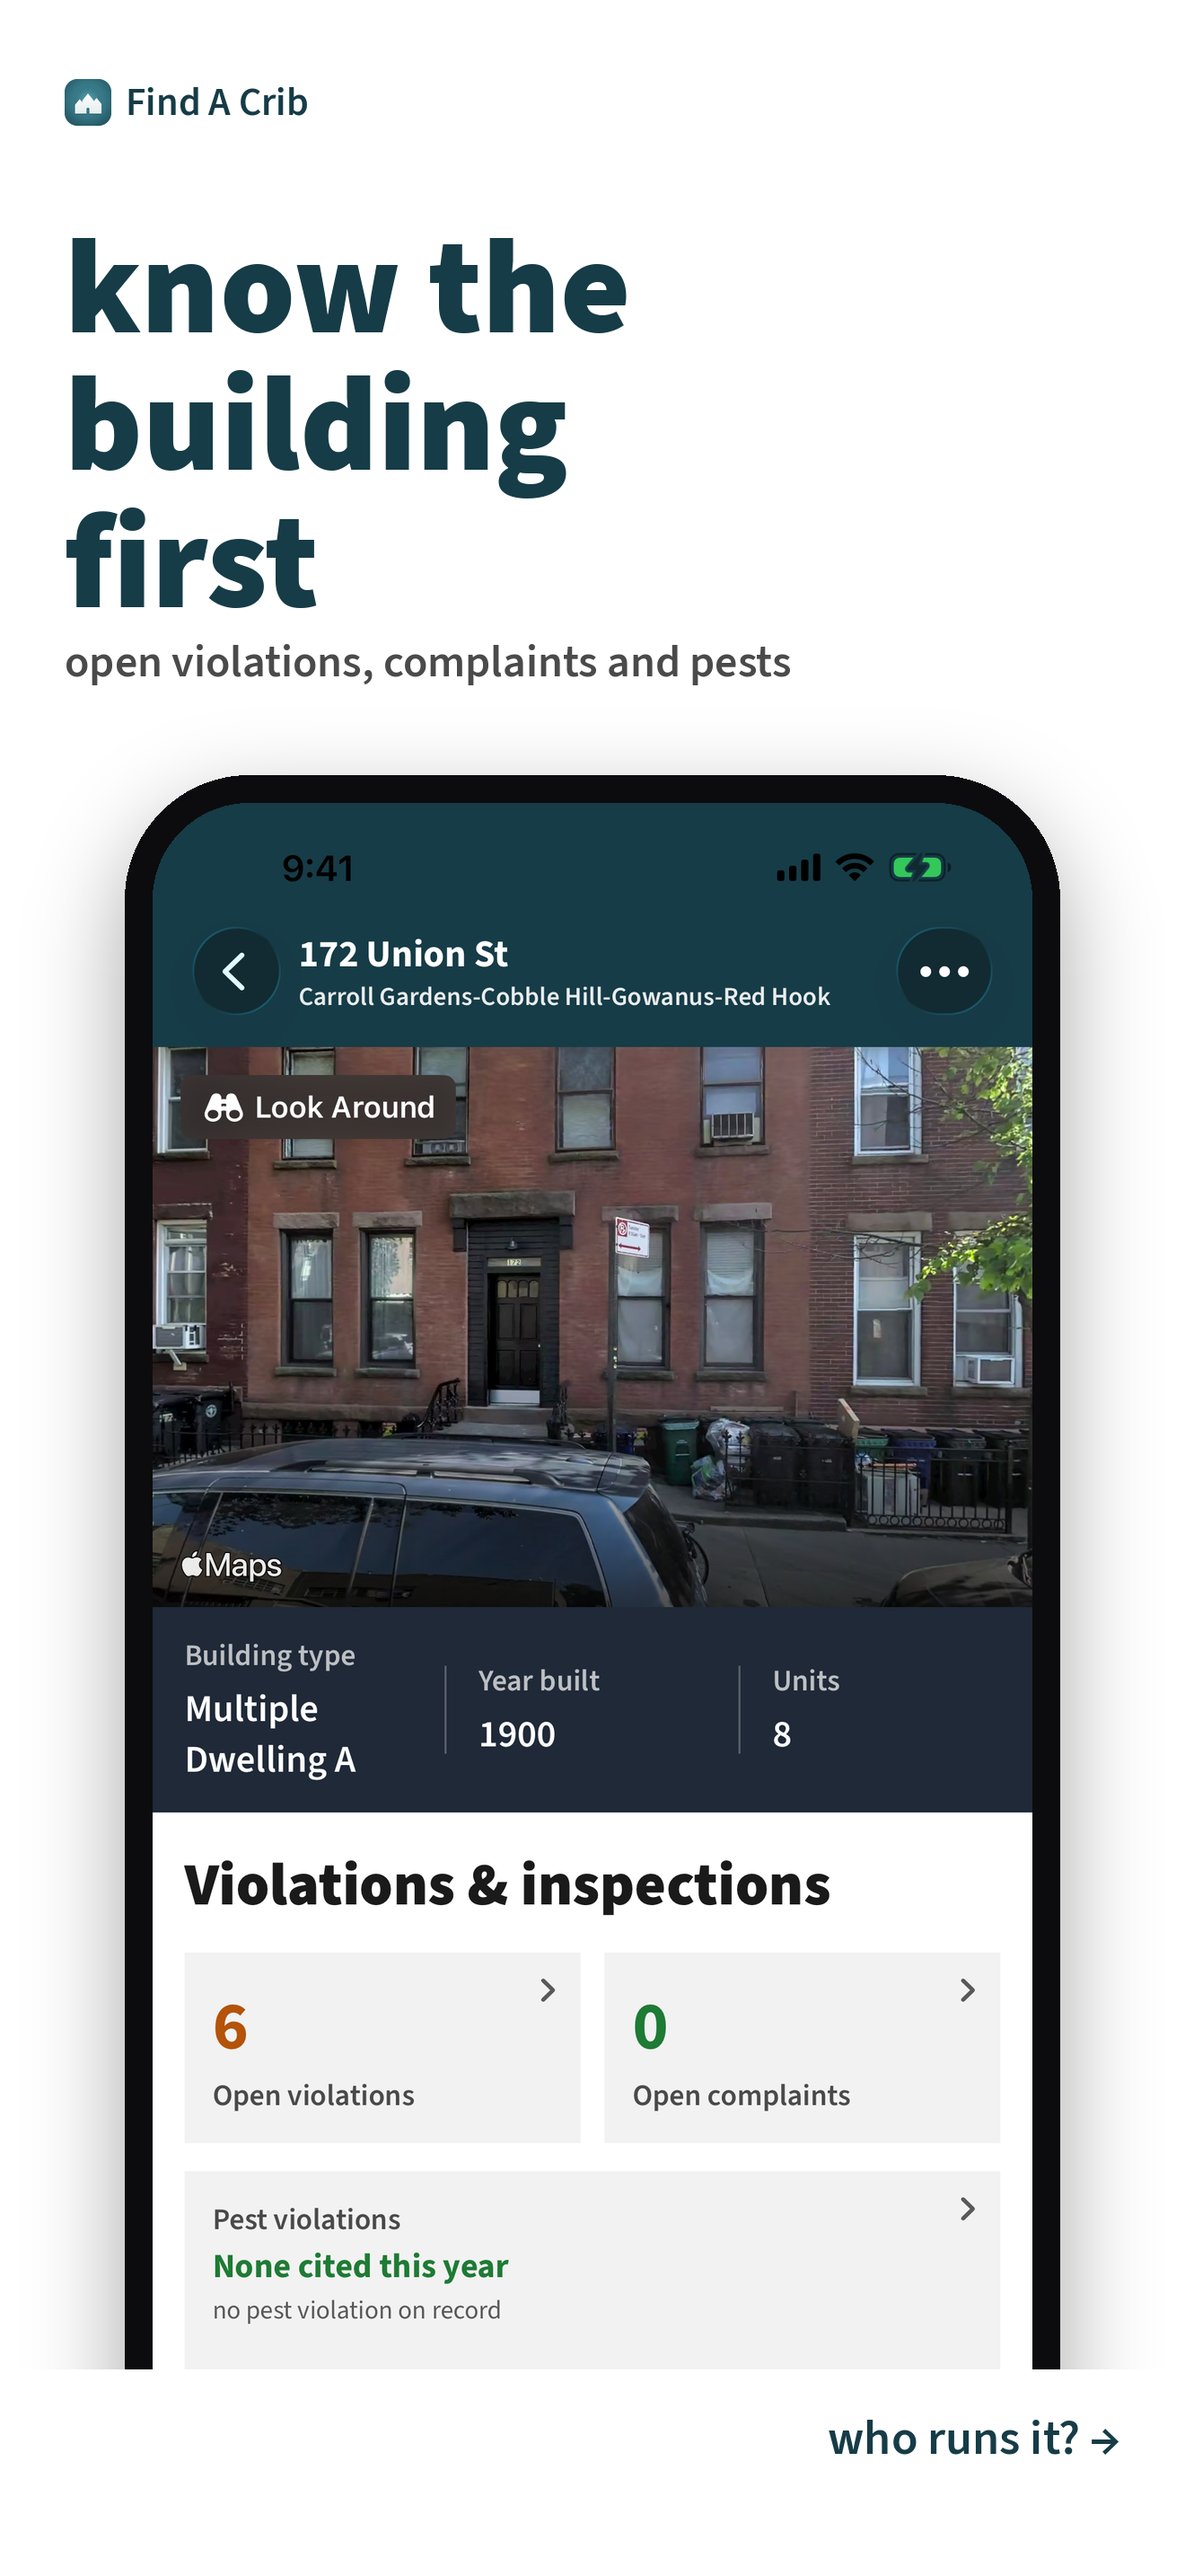
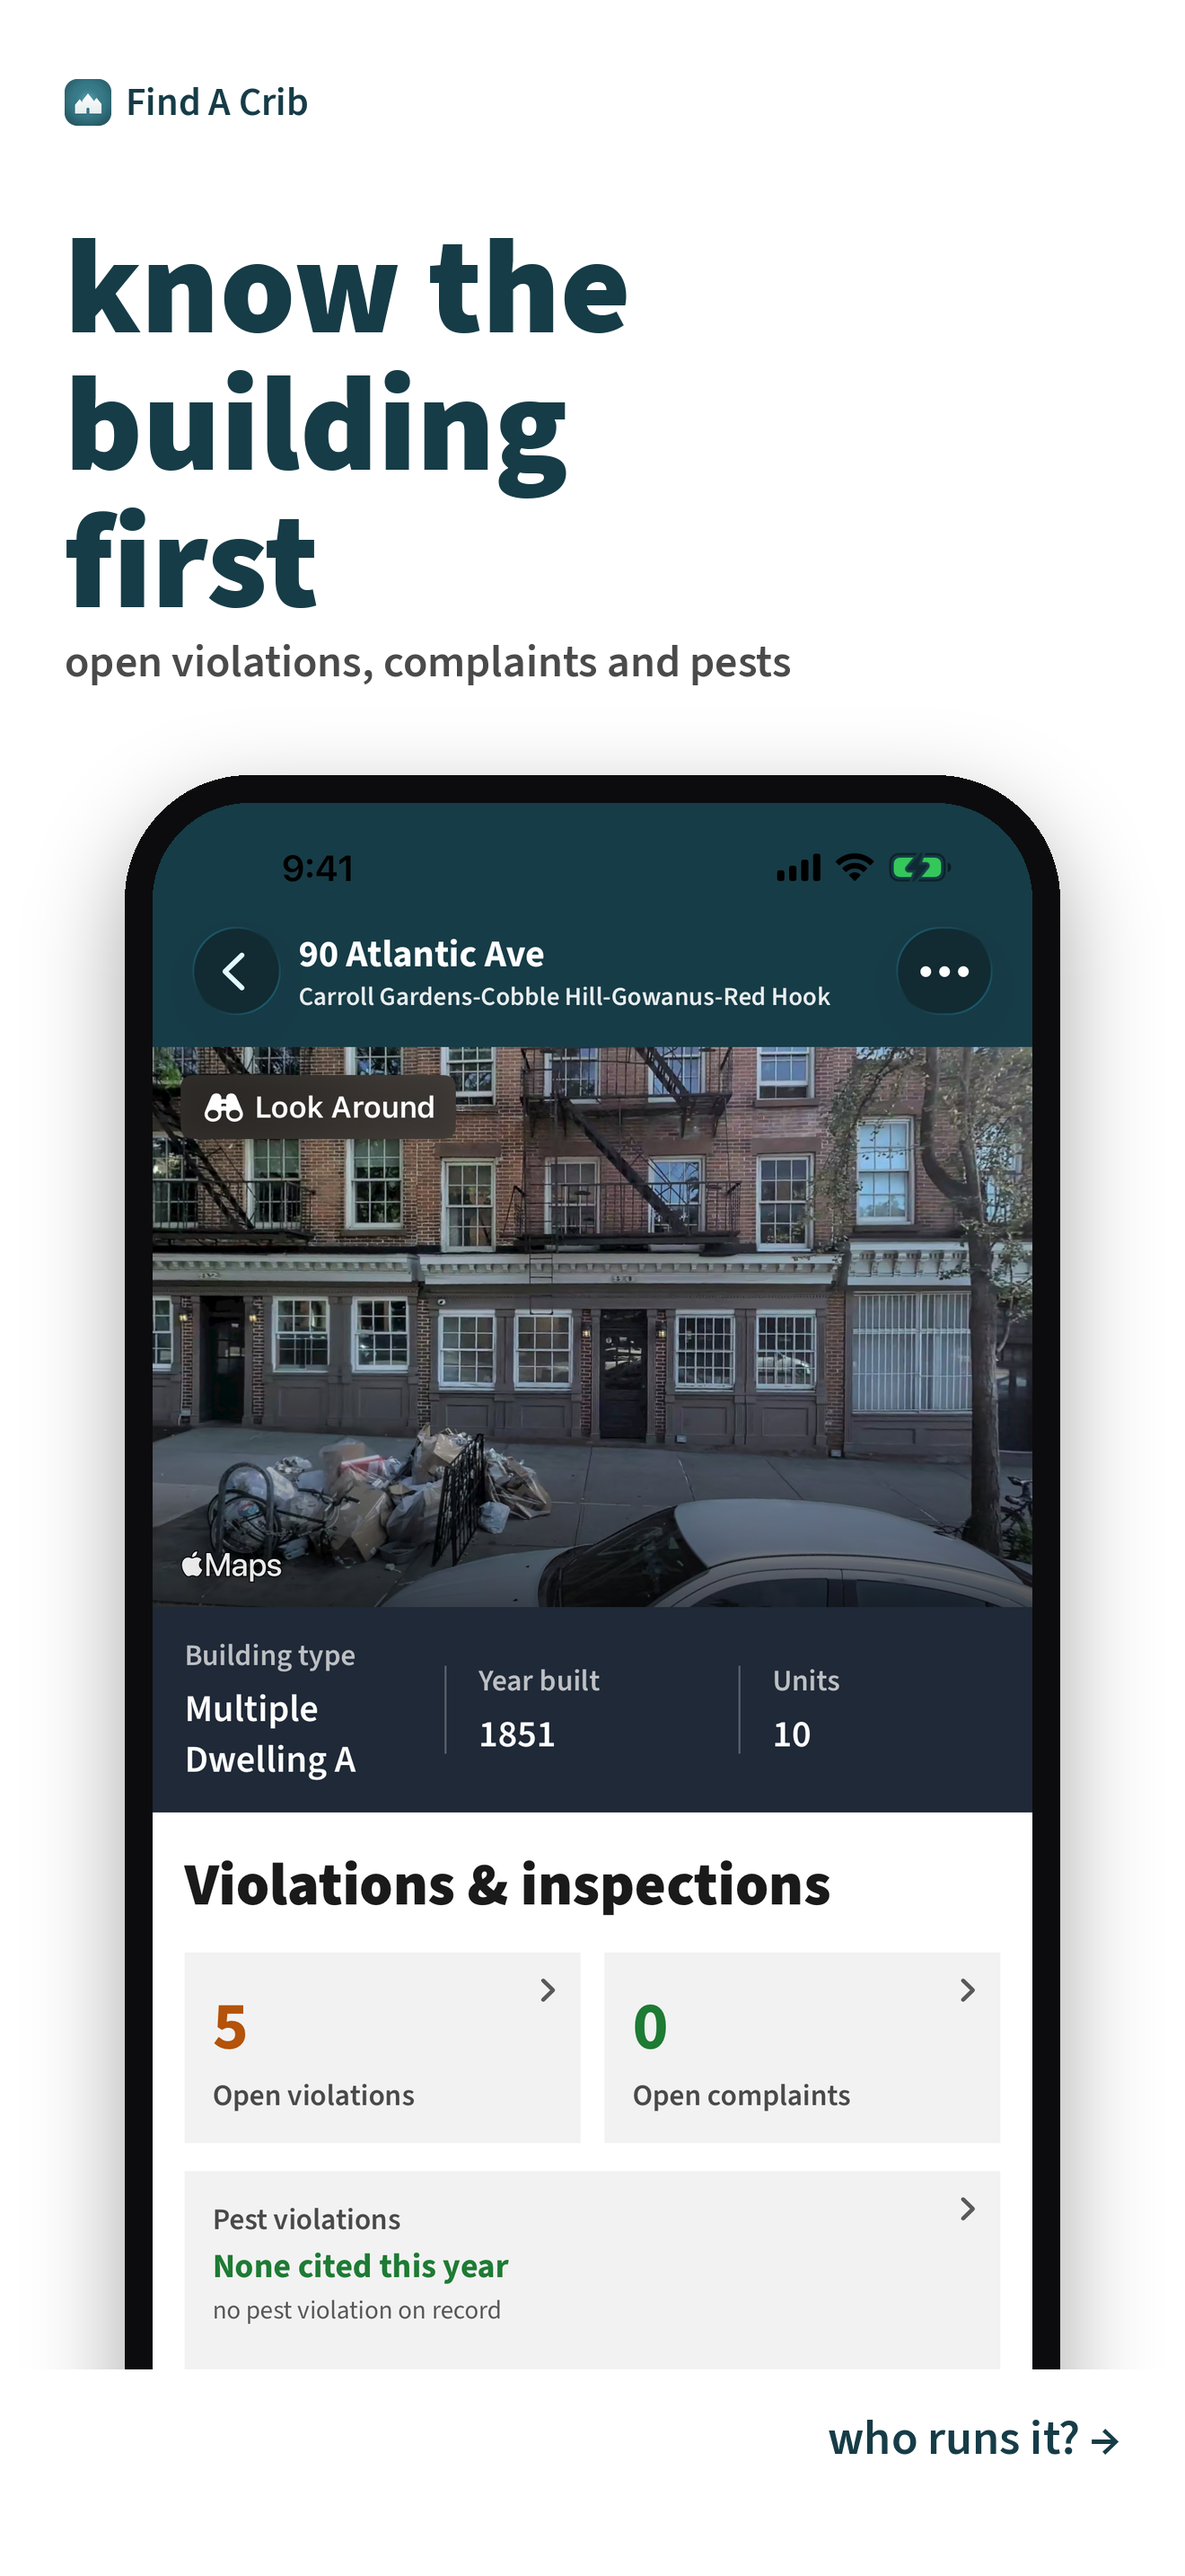
App Store screenshots: no real person's name in the agent panel
Owner: "i'd rather not show a real persons name in an ad". The agent and
building panels now use 90 Atlantic Ave, whose managing agent and owner
are companies (McCallister Management LLC, an LLC owner). HPD lists a
person as head officer on almost every building (all 14,102 Brooklyn
corporate owners have one), so MarketingCapture saves where that name and
address sit (<screen>.redact.json, from the elements' frames) and
make_screenshots.py blurs those boxes past reading. ONLY=agent,detail
recaptures a subset.

XCUITest: MarketingCapture only (skipped in normal runs). Secrets: none.
No LLM surface (OWASP LLM N/A).

diff --git a/ios/FindACribUITests/MarketingCapture.swift b/ios/FindACribUITests/MarketingCapture.swift
@@ -28,6 +28,23 @@ final class MarketingCapture: XCTestCase {
         try? png.write(to: URL(fileURLWithPath: dir).appendingPathComponent("\(name).png"))
     }
 
+    /// Where the head officer's name and address sit on the last shot, in
+    /// pixels, for make_screenshots.py to blur: HPD lists a person as head
+    /// officer on nearly every building, and the ads name no real person
+    /// (owner, 2026-10-17). The officer is the last party in the agent block.
+    private func redactOfficer(_ name: String) {
+        let texts = app.staticTexts.allElementsBoundByIndex
+        guard let i = texts.firstIndex(where: { $0.label.hasPrefix("Head officer") }) else { return }
+        let img = XCUIScreen.main.screenshot().image
+        let scale = img.size.width * img.scale / app.frame.width   // points -> PNG pixels
+        let rects = texts[(i + 1)...].prefix(2).map { e -> [Int] in
+            let f = e.frame
+            return [f.minX, f.minY, f.width, f.height].map { Int(($0 * scale).rounded()) }
+        }
+        let json = try? JSONSerialization.data(withJSONObject: rects)
+        try? json?.write(to: URL(fileURLWithPath: dir).appendingPathComponent("\(name).redact.json"))
+    }
+
     private func signIn() {
         let env = ProcessInfo.processInfo.environment
         guard let email = env["DEMO_EMAIL"], let pw = env["DEMO_PASSWORD"] else { return }
@@ -48,28 +65,36 @@ final class MarketingCapture: XCTestCase {
 
     func testCaptureScreens() {
         signIn()
-        let union = "3003430015"   // 172 Union St, Brooklyn
-        launch([]);                                        shot("home", wait: 8)
-        launch(["--route", "map"]);                        shot("map", wait: 8)
-        launch(["--route", "detail:\(union)"]);            shot("detail", wait: 8)
-        launch(["--route", "detail-agent:\(union)"]);      shot("agent", wait: 8)
-        launch(["--route", "hpd:\(union)"]);               shot("violations", wait: 8)
-        launch(["--route", "results"]);                    shot("results", wait: 8)
-        launch(["--lotteries-demo", "--tab", "lotteries"])
-        // The panel is the lotteries themselves, not the Plus banner over them.
-        let upsell = app.buttons["realtime-upsell-dismiss"]
-        if upsell.waitForExistence(timeout: 8) { upsell.tap() }
-        shot("lotteries", wait: 4)
-        launch(["--casa-demo", "--tab", "casa"]);          shot("casa", wait: 8)
-        for tool in ["rights", "renewal", "rent-increase", "repair"] {
+        // 90 Atlantic Ave, Cobble Hill: its managing agent and owner are
+        // companies, so only the head officer needs blurring.
+        let atlantic = "3002840015"
+        let only = ProcessInfo.processInfo.environment["MARKETING_ONLY"].flatMap { $0.isEmpty ? nil : Set($0.split(separator: ",").map(String.init)) }
+        func want(_ n: String) -> Bool { only?.contains(n) ?? true }
+        if want("home") { launch([]); shot("home", wait: 8) }
+        if want("map") { launch(["--route", "map"]); shot("map", wait: 8) }
+        if want("detail") { launch(["--route", "detail:\(atlantic)"]); shot("detail", wait: 8) }
+        if want("agent") { launch(["--route", "detail-agent:\(atlantic)"]); shot("agent", wait: 8); redactOfficer("agent") }
+        if want("violations") { launch(["--route", "hpd:\(atlantic)"]); shot("violations", wait: 8) }
+        if want("results") { launch(["--route", "results"]); shot("results", wait: 8) }
+        if want("lotteries") {
+            launch(["--lotteries-demo", "--tab", "lotteries"])
+            // The panel is the lotteries themselves, not the Plus banner over them.
+            let upsell = app.buttons["realtime-upsell-dismiss"]
+            if upsell.waitForExistence(timeout: 8) { upsell.tap() }
+            shot("lotteries", wait: 4)
+        }
+        if want("casa") { launch(["--casa-demo", "--tab", "casa"]); shot("casa", wait: 8) }
+        for tool in ["rights", "renewal", "rent-increase", "repair"] where want(tool) {
             launch(["--tab", "profile"])
             Thread.sleep(forTimeInterval: 3)
             app.open(URL(string: "findacrib://tool/\(tool)")!)
             shot(tool, wait: 4)
         }
-        launch(["--tab", "profile"])
-        let packet = app.buttons["profile-packet"]
-        for _ in 0..<8 where !packet.isHittable { app.swipeUp() }
-        if packet.isHittable { packet.tap(); shot("packet") }
+        if want("packet") {
+            launch(["--tab", "profile"])
+            let packet = app.buttons["profile-packet"]
+            for _ in 0..<8 where !packet.isHittable { app.swipeUp() }
+            if packet.isHittable { packet.tap(); shot("packet") }
+        }
     }
 }

diff --git a/ios/scripts/make_screenshots.py b/ios/scripts/make_screenshots.py
@@ -48,8 +48,23 @@ def rounded_mask(size, r):
     return m
 
 
+def redact(shot, path):
+    """Blur the boxes MarketingCapture saved next to the shot (<name>.redact.json,
+    pixel [x, y, w, h]): no real person's name in an ad (owner, 2026-10-17)."""
+    side = os.path.splitext(path)[0] + ".redact.json"
+    if not os.path.exists(side):
+        return shot
+    import json
+    for x, y, w, h in json.load(open(side)):
+        box = (max(0, x - 12), max(0, y - 6), min(shot.width, x + w + 12), min(shot.height, y + h + 6))
+        region = shot.crop(box)
+        small = region.resize((max(1, region.width // 60), max(1, region.height // 60)), Image.BILINEAR)
+        shot.paste(small.resize(region.size, Image.BILINEAR).filter(ImageFilter.GaussianBlur(24)), box[:2])
+    return shot
+
+
 def device(path, target_w):
-    shot = Image.open(path).convert("RGB")
+    shot = redact(Image.open(path).convert("RGB"), path)
     sh = int(target_w * shot.height / shot.width)
     shot = shot.resize((target_w, sh), Image.LANCZOS)
     r = int(target_w * 0.11)
